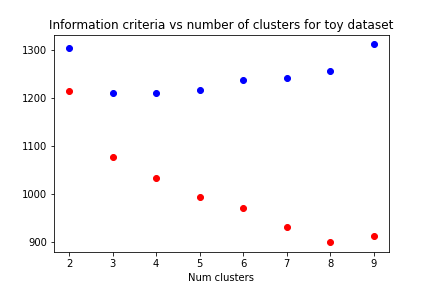
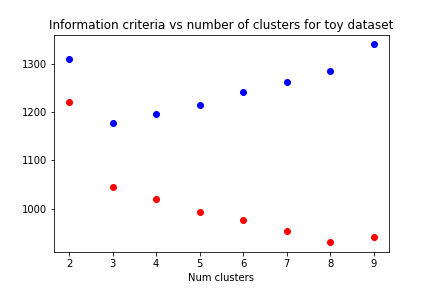
Added plots to documentation for finite mixture

diff --git a/Documentation/Finite_Mixture_Docs.md b/Documentation/Finite_Mixture_Docs.md
@@ -131,4 +131,54 @@ plt.scatter(x[:,0], x[:,1], s=10)
 plt.title("Unclustered data")
 plt.show()
 ```
-![](
+![raw_data](https://github.com/jlparkI/mix_T/blob/main/Documentation/Unclustered_data.png)
+
+```python
+#We choose the number of clusters using information criteria. Notice that when doing many different fits
+#as in this case with different numbers of clusters (some of which are highly non-optimal) 
+#it is often better to use fixed_df with a low value. 
+#We can optimize df later once we have selected the number of clusters.
+aics, bics = [], []
+for ncomp in range(2,10):
+    mix_model = FiniteStudentMixture(n_components=ncomp, fixed_df=True, df=1.0)
+    mix_model.fit(x)
+    aics.append(mix_model.aic(x))
+    bics.append(mix_model.bic(x))
+
+plt.scatter(np.arange(2, 10), aics, color="red", label="AIC")
+plt.scatter(np.arange(2,10), bics, color="blue", label="BIC")
+plt.title("Information criteria vs number of clusters for toy dataset")
+plt.xlabel("Num clusters")
+#Consistent with expectations (in this case), we see an "elbow" for AIC and a clear minimum for BIC at
+#3 clusters. The absolute value of these information criteria is not important, the location of the "elbow"
+#or minimum is. Note that BIC discriminates much more heavily against models with more parameters.
+```
+![bic_aic](https://github.com/jlparkI/mix_T/blob/main/Documentation/AIC_BIC.png)
+
+```python
+#We fit both scikitlearn's Gaussian mixture and the FiniteStudentMixture using 3 clusters and 
+#compare the results.
+from sklearn.mixture import GaussianMixture as GMM
+gm = GMM(n_components=3, n_init=5, random_state=11)
+stm = FiniteStudentMixture(n_components=3, n_init=5, fixed_df=False, df=1, random_state=11)
+gm.fit(x)
+stm.fit(x)
+plt.scatter(x[:,0], x[:,1], s=10, label="raw data")
+stm_clusters = stm.get_cluster_centers()
+plt.scatter(gm.means_[:,0], gm.means_[:,1], color="red", marker="*", 
+                label="Gaussian mixture", alpha=0.5, s=100)
+plt.scatter(stm_clusters[:,0], stm_clusters[:,1], color="black", marker="X",
+               label="Student's t-mixture", s=100)
+    
+plt.legend()
+
+#Notice that the Gaussian mixture model behaves unpredictably and erratically in the presence
+#of outliers, even on a very simple toy dataset. A Student's t-mixture, by contrast, performs
+#just fine. Obviously, real-world datasets pose additional challenges not explored here, and
+#in many cases other clustering techniques may be more suitable, but the point is that
+#a Student's t-mixture is often a more appropriate technique than a Gaussian mixture.
+#In the best case scenario, it will beat the Gaussian mixture by a substantial margin;
+#worst case, it may give you similar results.
+```
+![comparison](https://github.com/jlparkI/mix_T/blob/main/Documentation/STM_vs_GMM.png)
+
